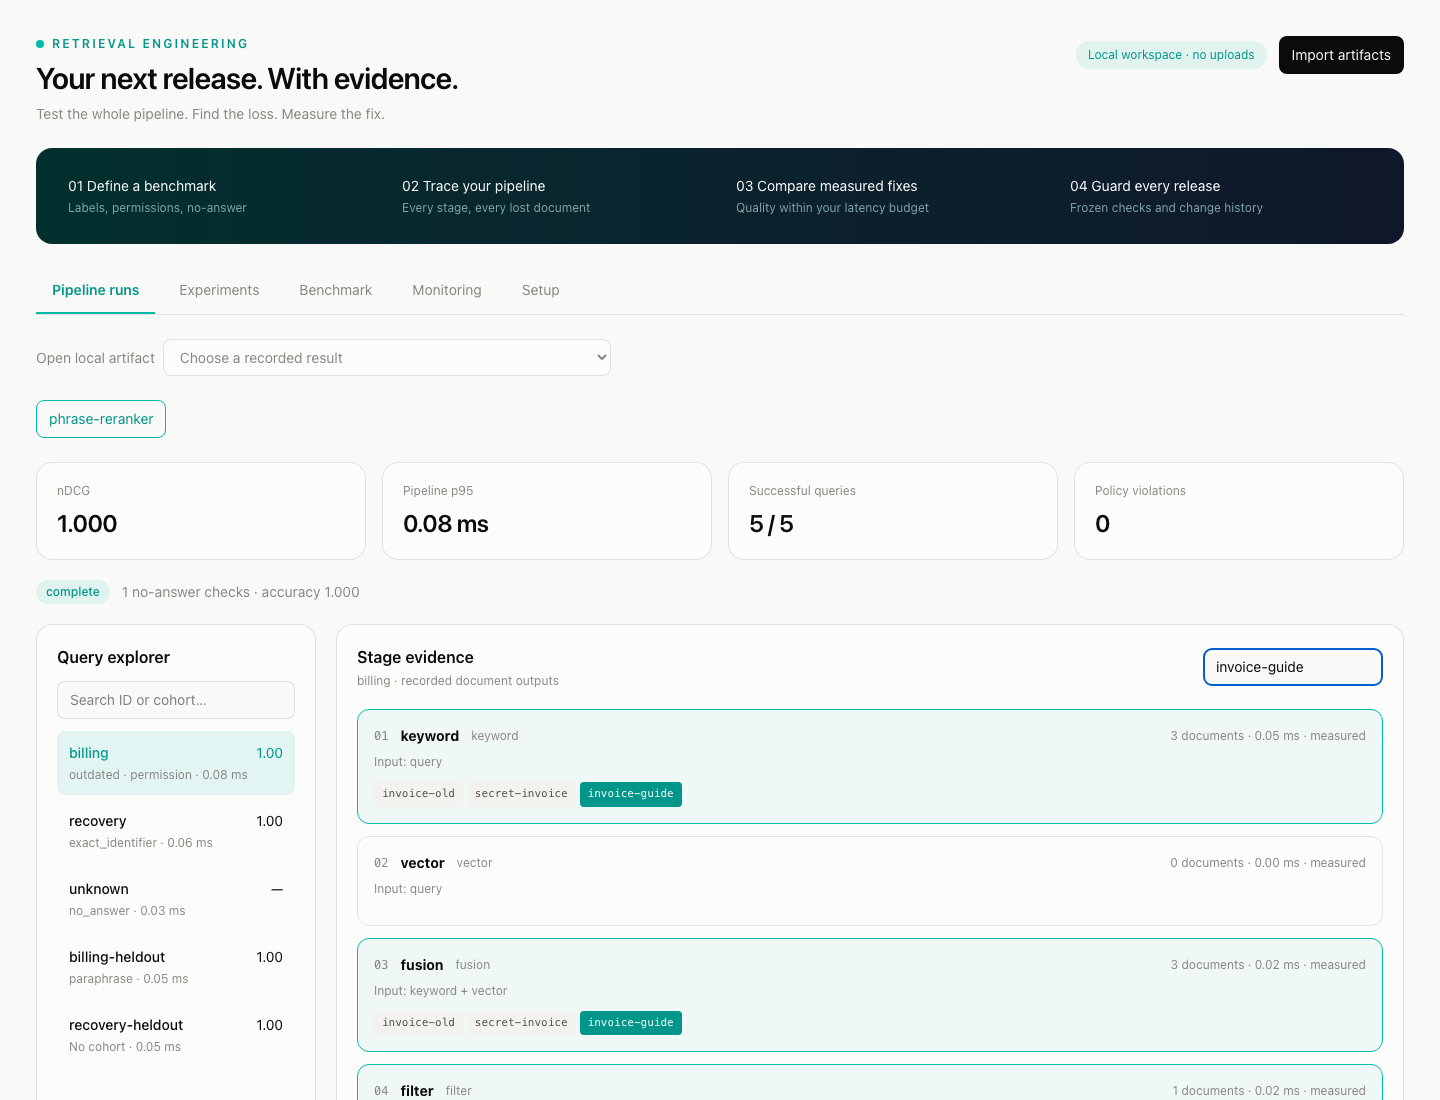
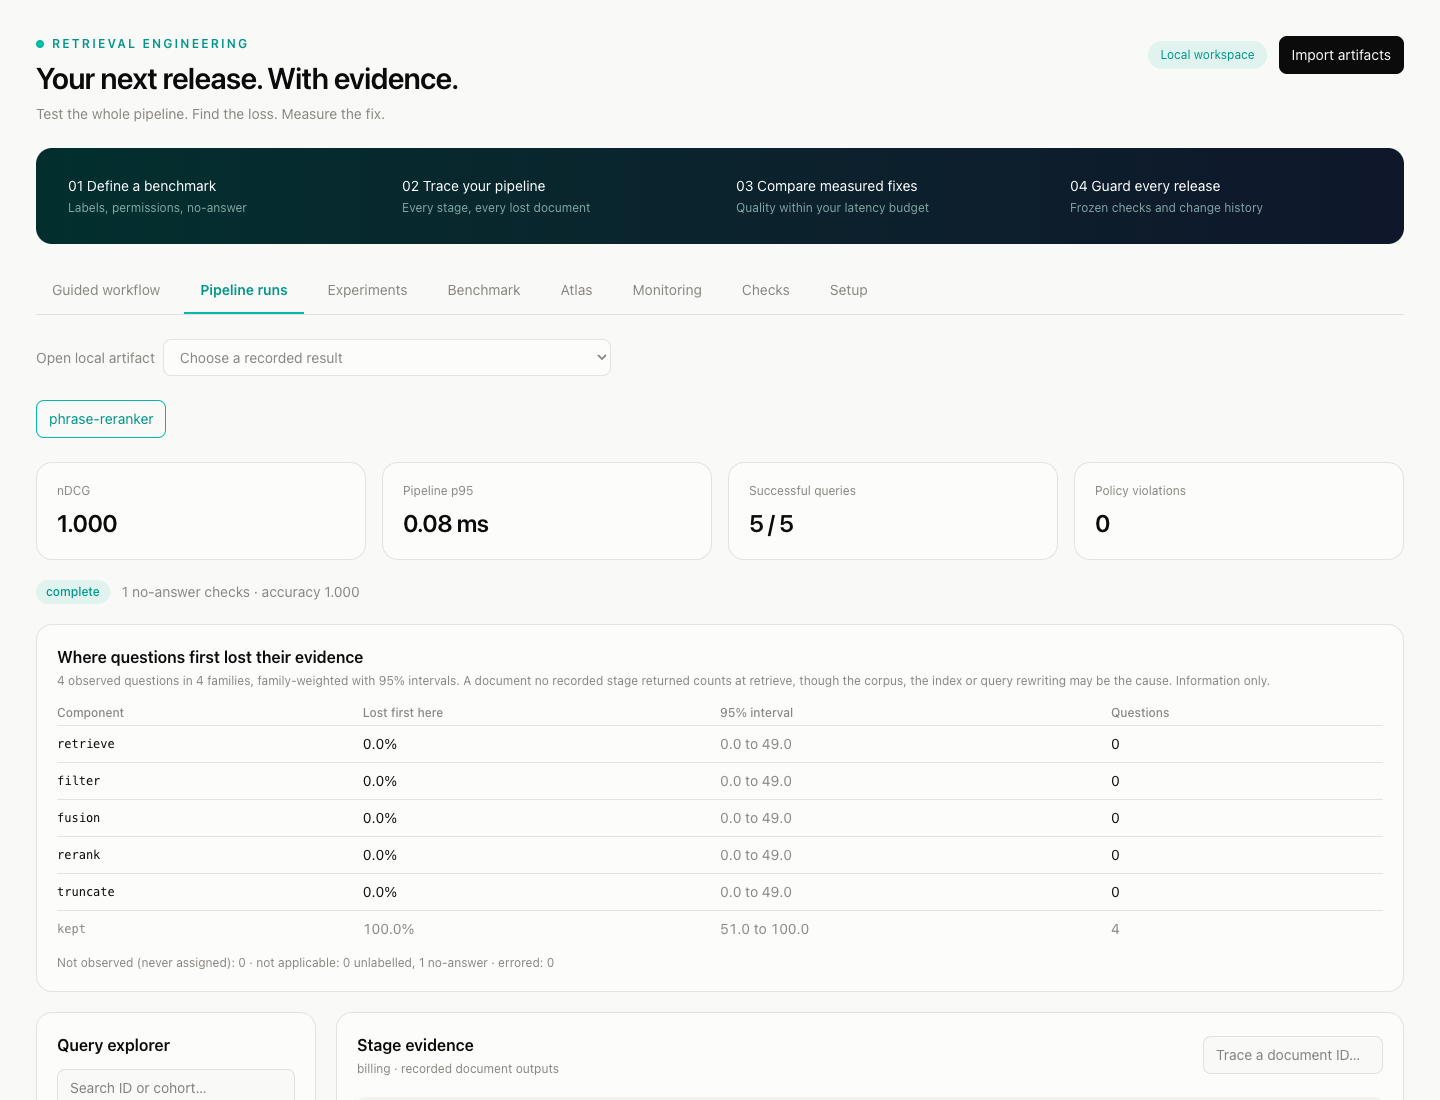
docs: refresh the workbench screenshot and add Checks, atlas and scoreboard ones

diff --git a/README.md b/README.md
@@ -93,7 +93,16 @@ Evaluations save query progress locally. Resume from **Saved progress** in the b
 or use `workbench run --resume CHECKPOINT_DIRECTORY`; failed-query retries are explicit.
 See [recovery details](docs/retrieval-workbench.md#resume-an-evaluation).
 
-![Workbench run view with stage evidence for one question](docs/screenshots/workbench.png)
+![Workbench run view: summary, the component scoreboard and stage evidence for one question](docs/screenshots/workbench.png)
+
+<table>
+<tr>
+<td><img alt="Checks tab: a label audit listing two labels to review, an embedding drift report naming a new topic, and a failed poisoning check" src="docs/screenshots/checks.png"></td>
+<td><img alt="Corpus atlas: a map of 20,000 documents with a coverage hypothesis that 12% of documents form a group no benchmark question is close to" src="docs/screenshots/atlas.png"></td>
+</tr>
+</table>
+
+![Component scoreboard: 71.4% of question families first lost their evidence at the reranker, two questions not observed](docs/screenshots/component-scoreboard.png)
 
 See the [workbench guide](docs/retrieval-workbench.md) for adapter manifests, stage
 evidence, no-answer and permission assertions, and data-handling boundaries.
